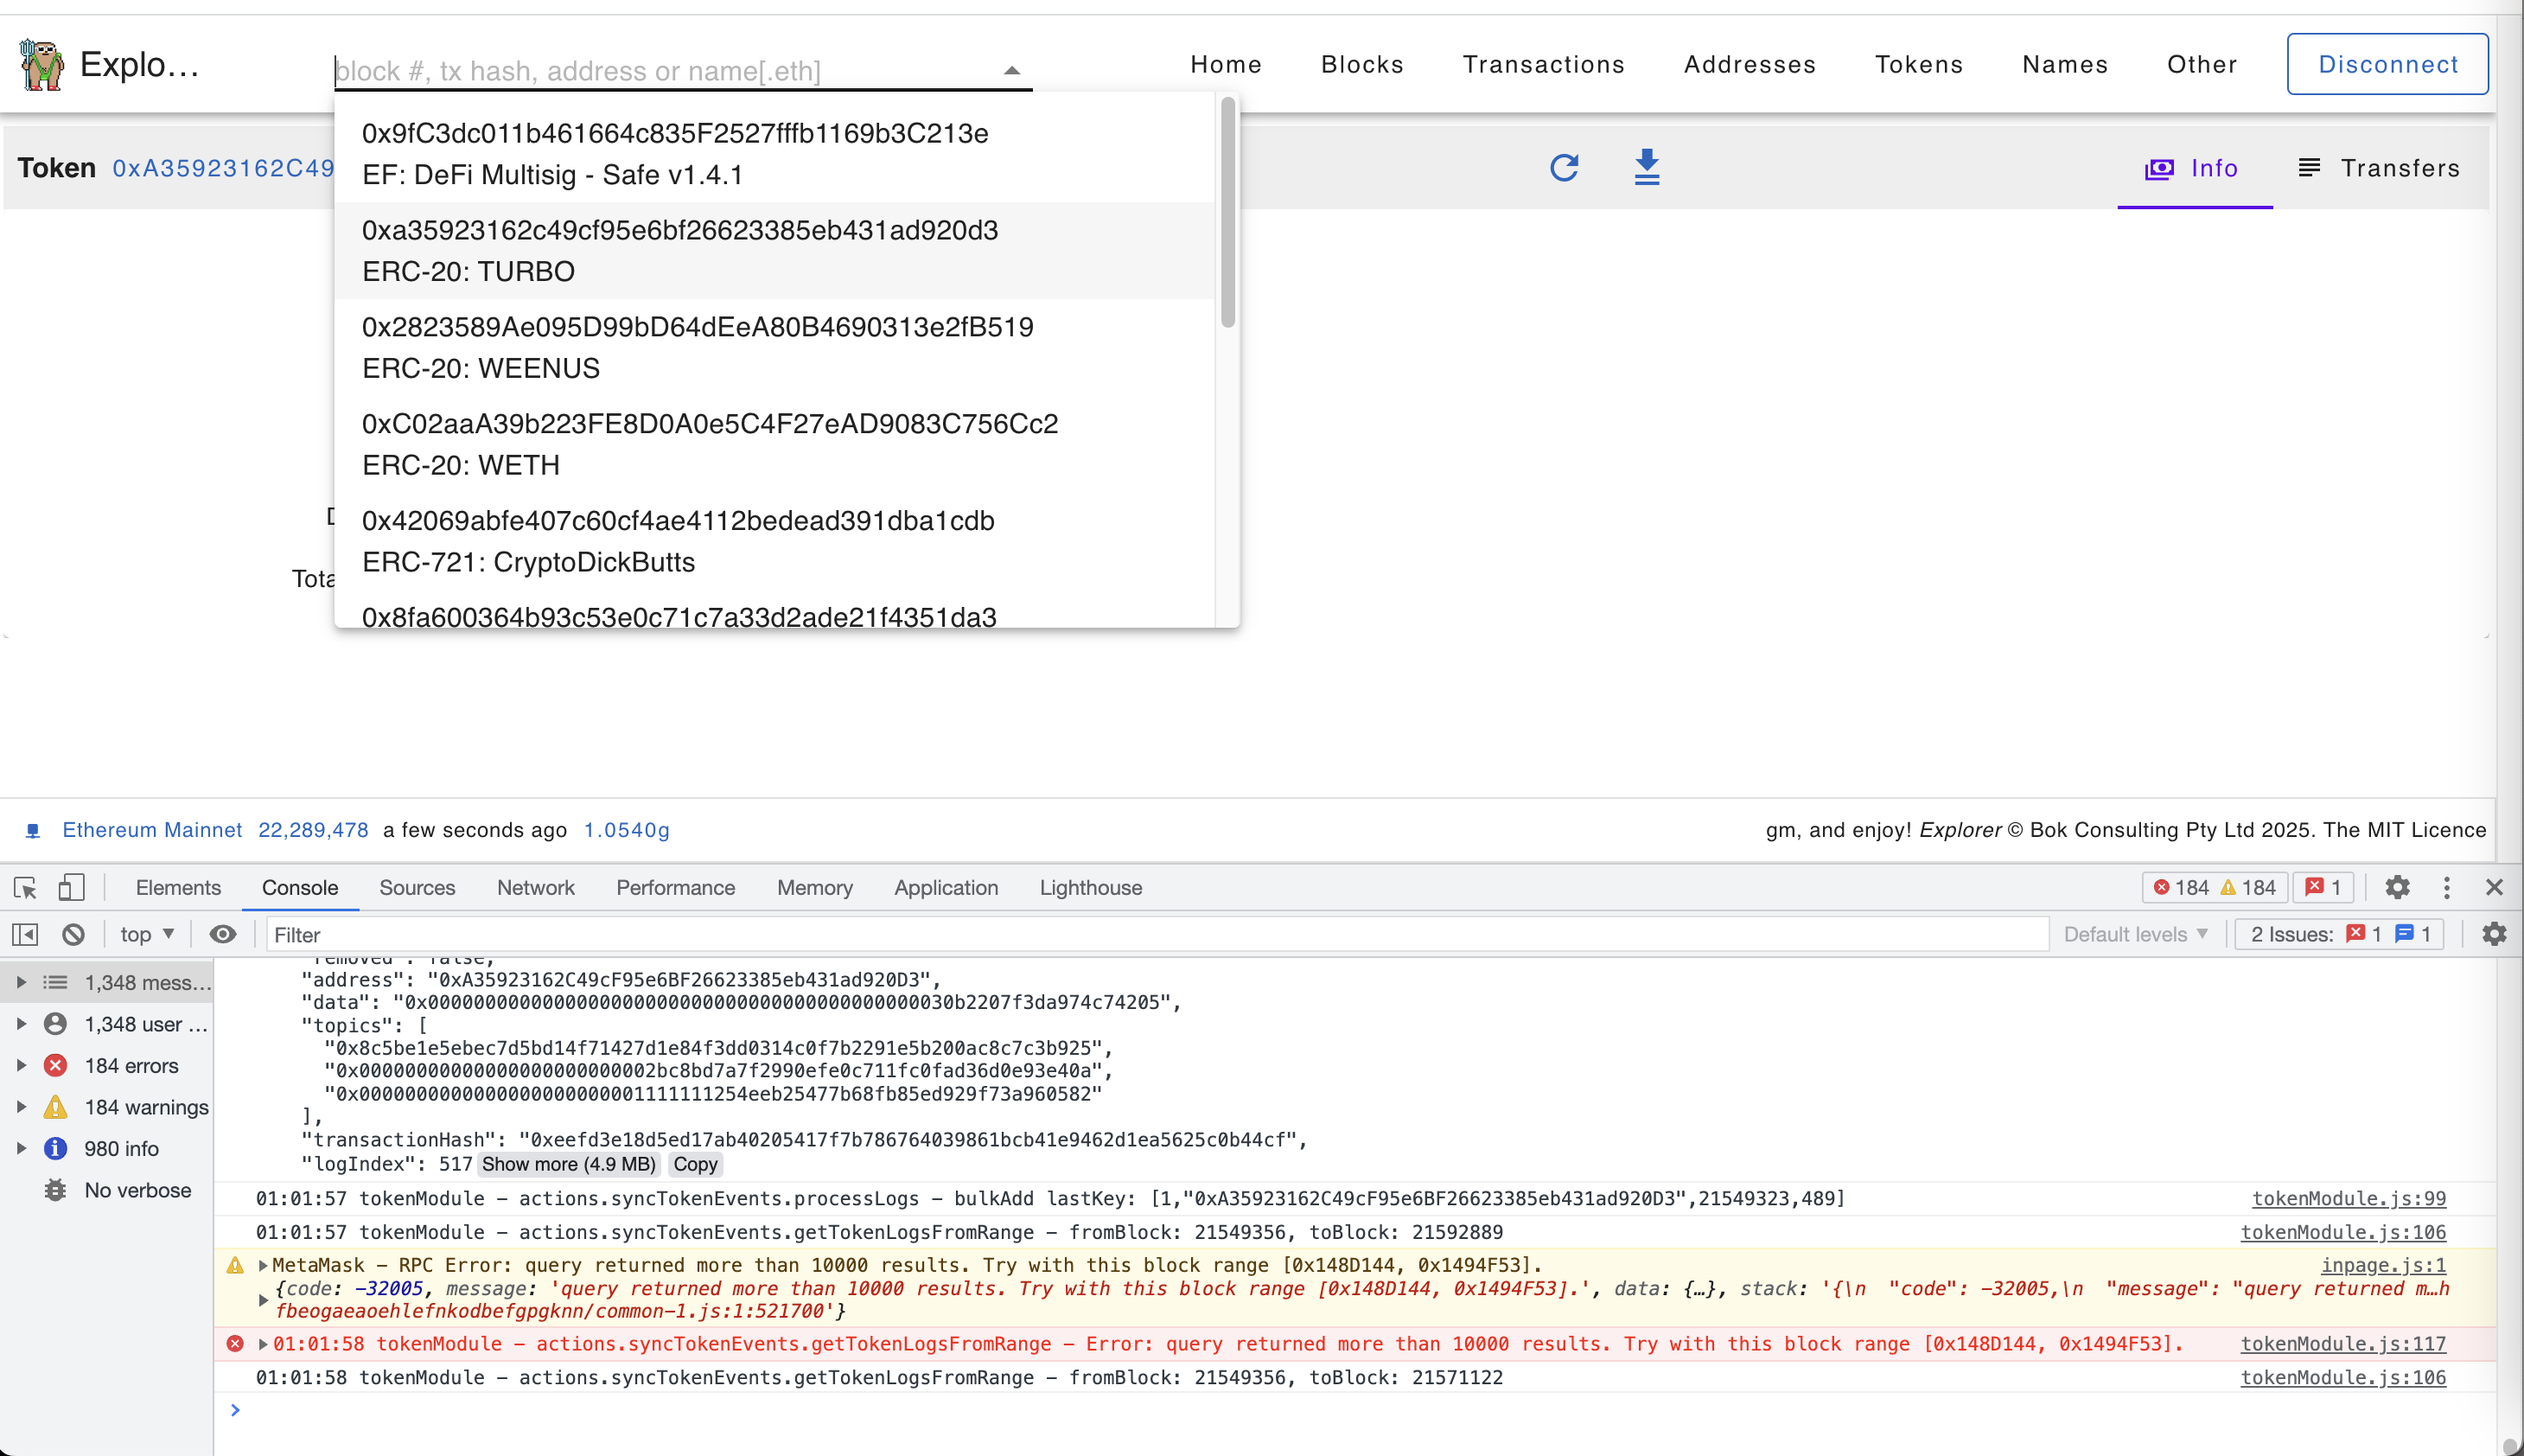
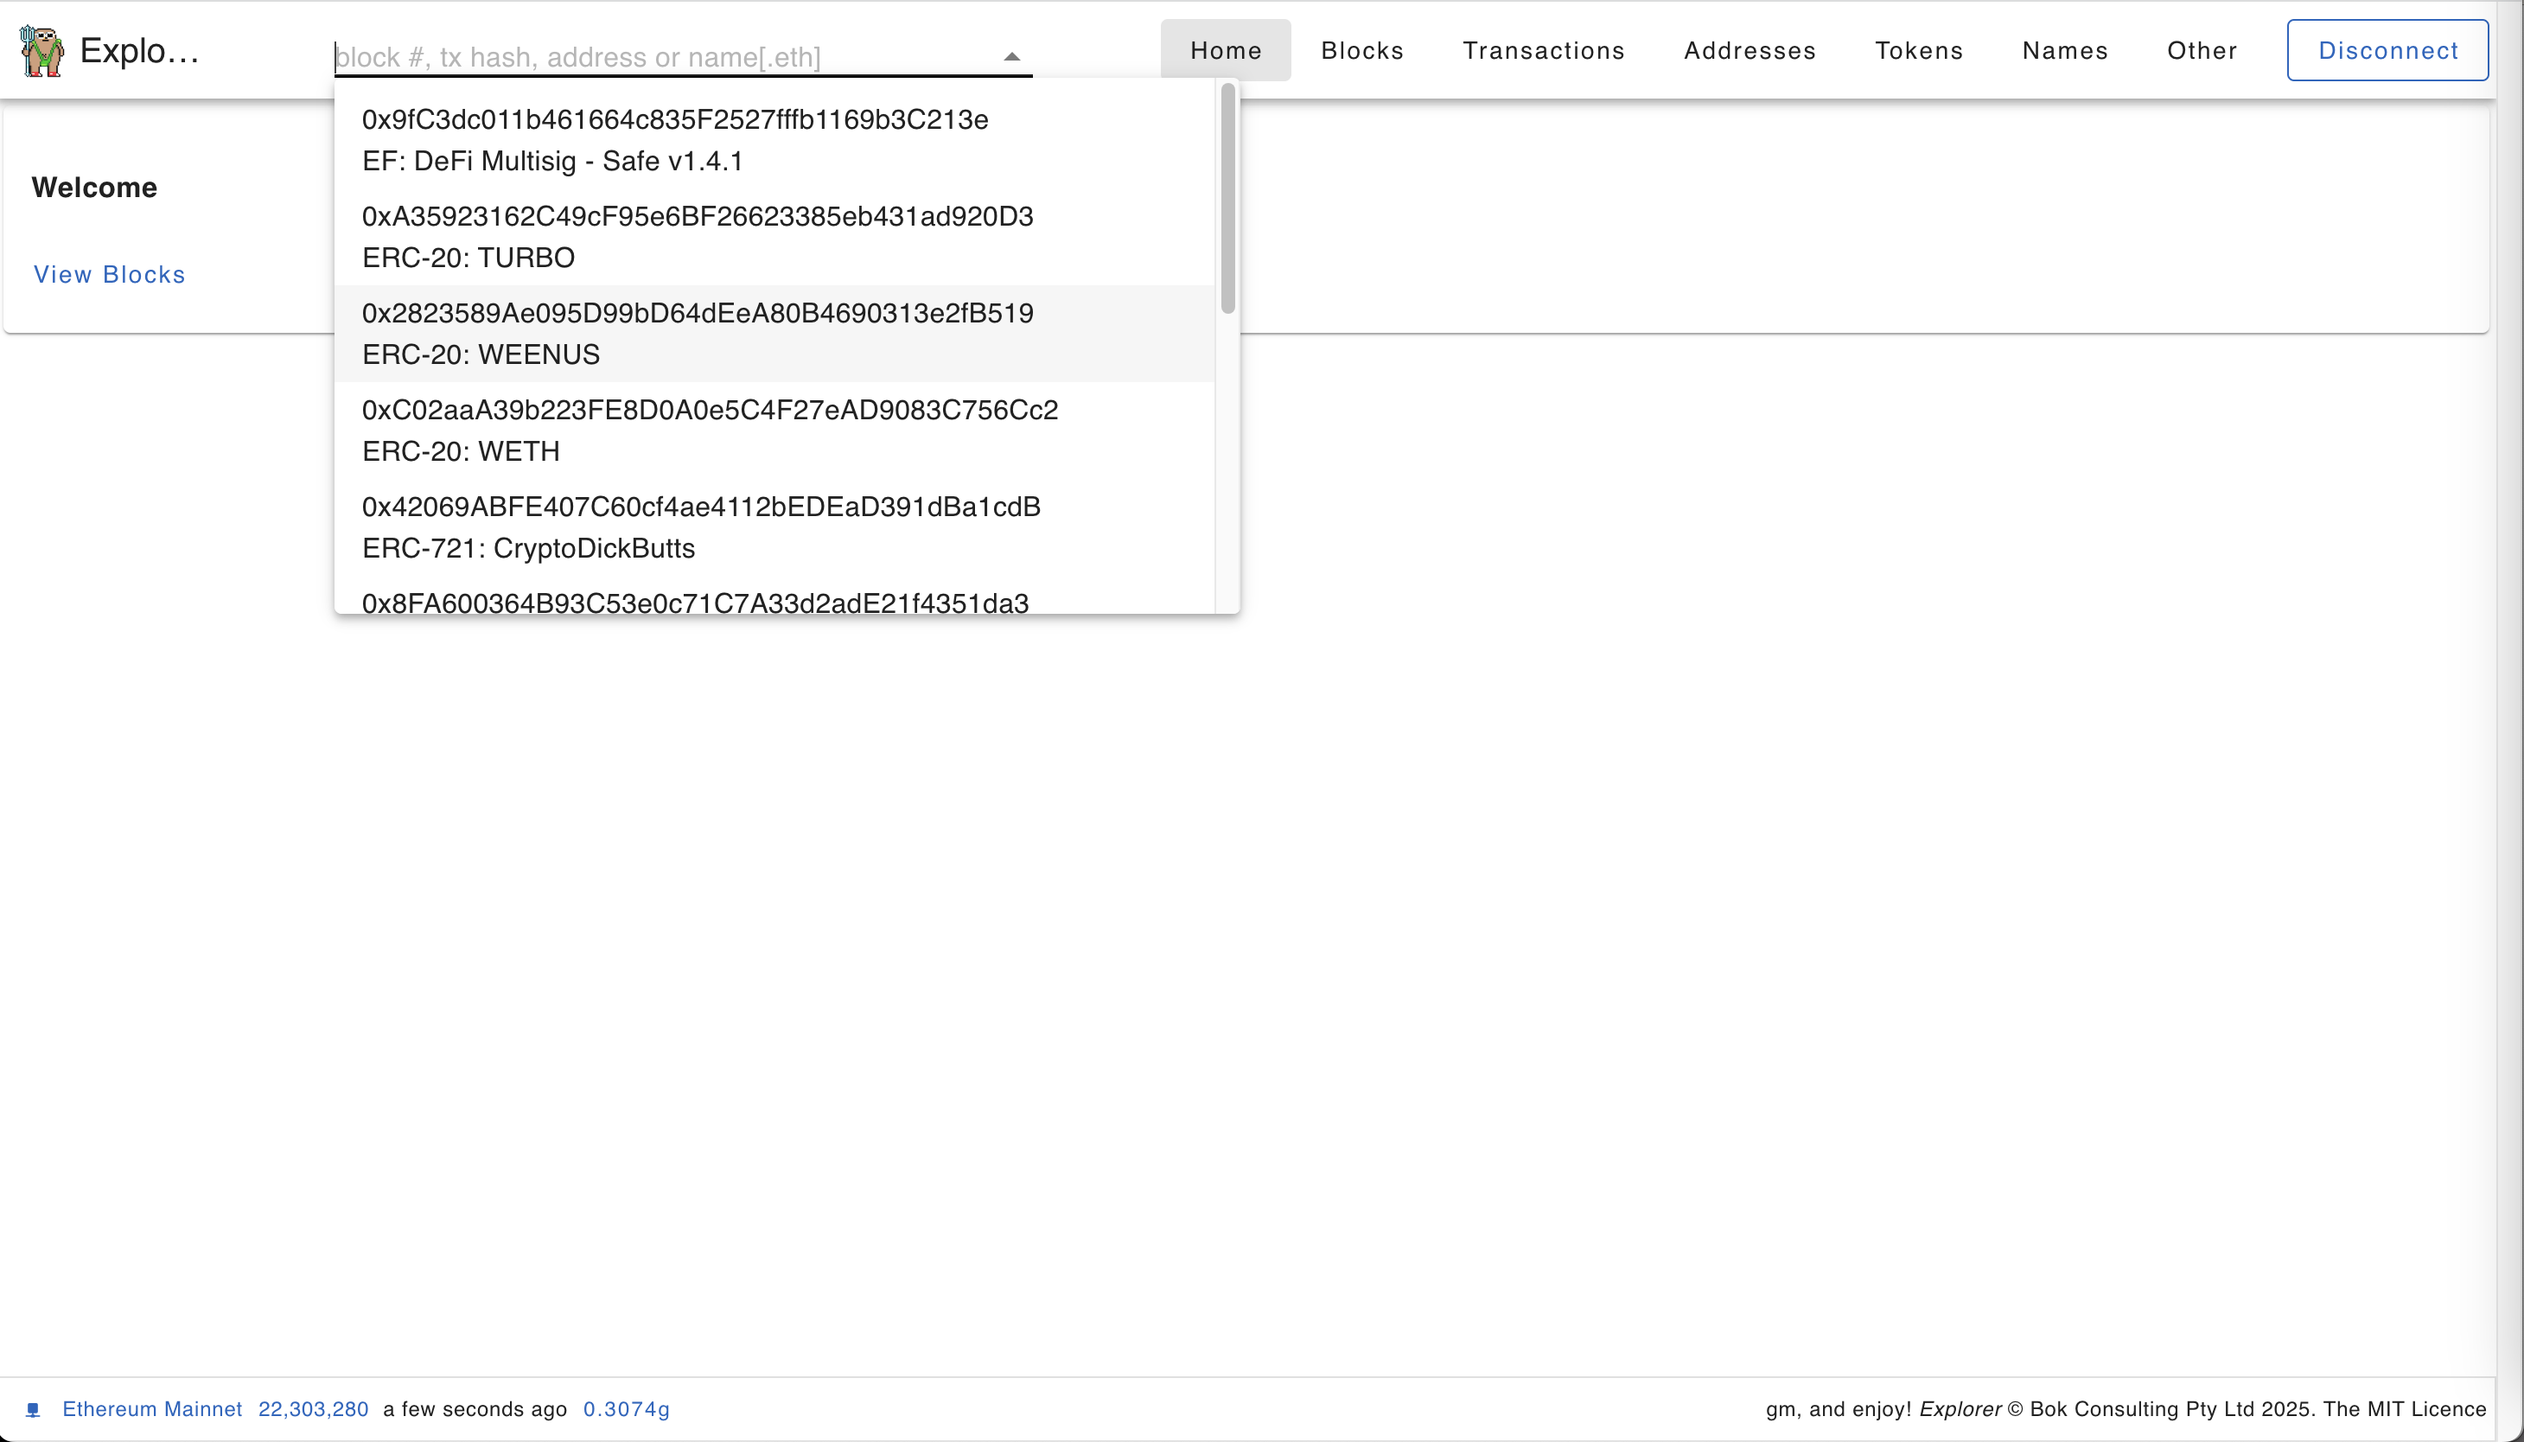
token events screenshots

diff --git a/README.md b/README.md
@@ -48,17 +48,33 @@ Click [IMPORT FROM ETHERSCAN] to import a list of EVM chains.
 
 #### Ethereum Mainnet Token
 
-Select the ERC-20 TURBO token at `0xA35923162C49cF95e6BF26623385eb431ad920D3`
+Select ERC-20 WEENUS @ `0x2823589Ae095D99bD64dEeA80B4690313e2fB519`
 
 <kbd><img src="images/SampleScreen16.png" width="800" /></kbd>
 
-Click on the [Sync Token Events] button
+Select [TOKEN CONTRACT]
 
 <kbd><img src="images/SampleScreen17.png" width="800" /></kbd>
 
-1,307,482 event logs retrieved from the web3 connection and stored in the local IndexedDB database in ~ 10 minutes. Only works on Ethereum Mainnet as L2s may have a small `provider.getLogs(...)` block range.
+Click on the [Sync Token Events] button
 
 <kbd><img src="images/SampleScreen18.png" width="800" /></kbd>
+
+265 events
+
+<kbd><img src="images/SampleScreen19.png" width="800" /></kbd>
+
+Events tab
+
+<kbd><img src="images/SampleScreen20.png" width="800" /></kbd>
+
+ERC-721 Larva Chad @ `0x8FA600364B93C53e0c71C7A33d2adE21f4351da3` events
+
+<kbd><img src="images/SampleScreen21.png" width="800" /></kbd>
+
+ERC-1155 WEENUS @ `0xB32979486938AA9694BFC898f35DBED459F44424` events
+
+<kbd><img src="images/SampleScreen22.png" width="800" /></kbd>
 
 <br />
 
